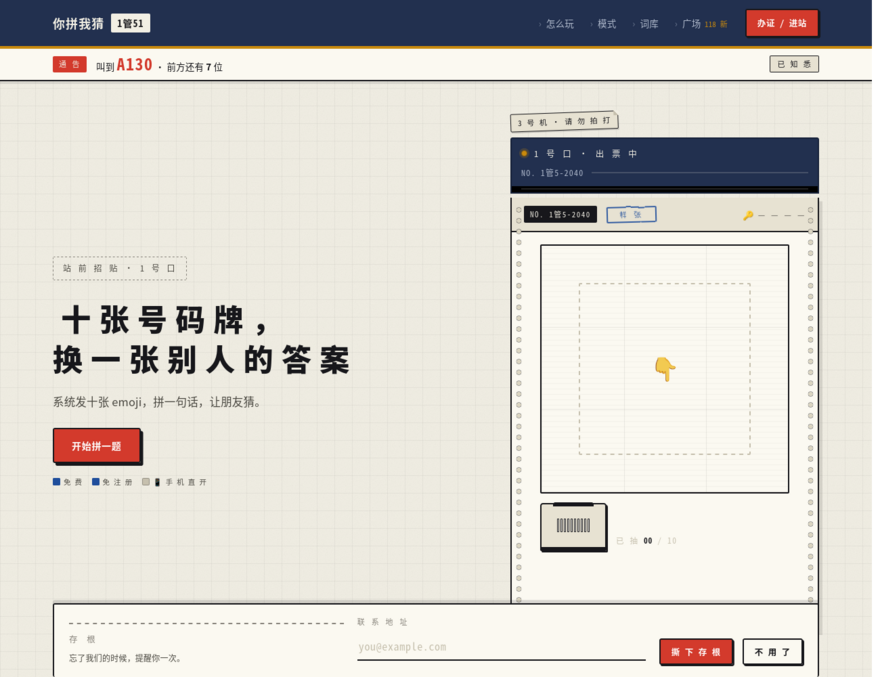
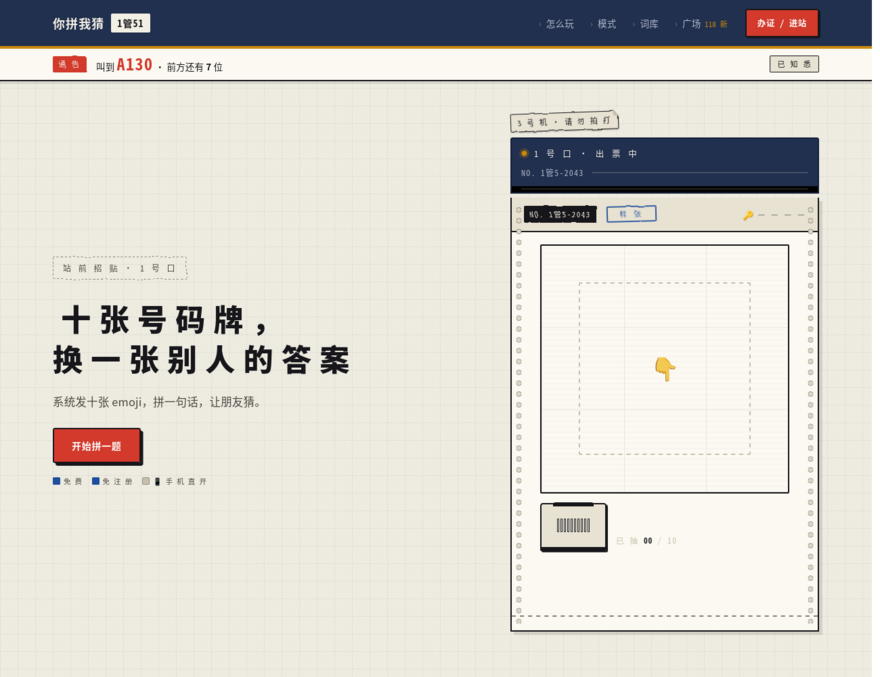
尺寸稳定化 + 油墨降温扩面 + 翻牌倒计时 + 布局不变量检查
## 1. 冻结 .bay 整棵子树的尺寸（用户指向 /…/div[2]/div[2]/div[2]）

路径解析为 .hero > .hero-grid > .bay > .gate > .feed（出票读数行）。
不赌是哪一个，把整棵子树做成「尺寸与内容无关」：

- .feed        高度钉死 30px；.feed-no 用 tabular-nums + min-width:15ch
- .thinbar     去掉 min-width:80px（原来是它顶着，编号一长整行就溢出），改 flex:1 1 0;min-width:0
- .tpaper>.sheet-hd  改 nowrap + overflow:hidden
  （base 的 .sheet-hd 是 flex-wrap:wrap，#ans 从「— — — —」变成真答案时
    宽度变化会触发换行 → 直接 +1 行高 → 整个 hero 跟着跳）
- .ans-lbl     加 min-width:0 + 省略号

## 2. 油墨降温

scale 6/9 → 3.2/4.6，baseFrequency 略升（.05→.07 / .03→.05）。
从「大幅摆动」收成「边缘细碎」，用户反馈原来太夸张。

## 3. 油墨扩面（用户指出：只给印章加会造成语言不统一）

原来只有 .stamp / .seal 有。
现纳入：.tag · .tag-no · .tag-out · .label · .eyebrow · .window-sign · .stamp.wax。
凡「印上去的标记」同一质感，不再出现两种材质。

## 4. 倒计时翻牌化（.flap 终于用上了）

plaza 每日一题、room 倒计时：用 MutationObserver 观察 #cd 的文本变化后重绘，
**不改动原有计时逻辑**；每次只让变了的位翻（真翻牌屏就是这样跳的）。
重绘后 textContent 与 dataset.v 相同 → observer 回调早退，不会自激。

guess 歪解榜：加 .scan（扫描线）+ 头名票数 .glow（磷光）—— 它本来就是「屏」。

## 5. check.sh 新增第 6 组「布局不变量」

把这次修过的四个坑写成断言，防止复发：
  A. .bay 不得用 margin-left:auto、必须有 justify-self:end + width:100%
  B. .hand-row 必须是 grid、不得 flex-wrap、必须有 min-height
  C. .tpaper>.sheet-hd 必须 nowrap
  D. 油墨滤镜不得用 filter:var(...) 中转、页面必须内联 svg defs
判据文件：tools/layout_invariants.py（每条都注明了对应的真实 bug）

注：本轮截图未刷新（本机连续启动 headless Firefox 已超时），
preview/ 落后于代码，下次可用时补。

Changed region(s): [[0.0614, 0.8685, 0.9511, 0.9926], [0.0614, 0.9616, 0.1841, 0.9926], [0.675, 0.2792, 0.7364, 0.3412]]

diff --git a/app/index.html b/app/index.html
@@ -61,9 +61,13 @@ section[id]{scroll-margin-top:130px}
 .gate-top{display:flex;align-items:center;gap:10px;padding-bottom:8px}
 .gate-top .gk{font-family:var(--mono);font-size:12.5px;letter-spacing:.22em;color:var(--paper)}
 /* 出票读数：编号是内容，进度是那条细实线 */
-.feed{display:flex;align-items:center;gap:12px;padding-bottom:10px}
-.feed-no{font-family:var(--mono);font-size:12px;letter-spacing:.1em;color:#B0BACC;white-space:nowrap}
-.thinbar{flex:1;height:2px;background:rgba(242,239,228,.18);min-width:80px}
+/* 出票读数行：高度必须与内容无关。
+   编号是变长的（演示循环会换号），若编号变长而 .thinbar 有 min-width:80px 顶着，
+   整行会溢出；高度也可能随字号/换行变化。这里把高度钉死、编号用等宽数字。 */
+.feed{display:flex;align-items:center;gap:12px;padding-bottom:10px;height:30px}
+.feed-no{font-family:var(--mono);font-size:12px;letter-spacing:.1em;color:#B0BACC;
+  white-space:nowrap;font-variant-numeric:tabular-nums;min-width:15ch}
+.thinbar{flex:1 1 0;min-width:0;height:2px;background:rgba(242,239,228,.18)}
 /* 细实线进度：一格一格跳，不做缓动 —— 机器是机械的 */
 .thinbar i{display:block;height:2px;width:0;background:var(--amber)}
 .gate-slot{height:9px;background:#000;margin:0 -14px;position:relative}
@@ -80,11 +84,14 @@ section[id]{scroll-margin-top:130px}
   background-size:13px 16px;background-repeat:repeat-y}
 .tpaper::before{left:4px}
 .tpaper::after{right:4px}
-.tpaper>.sheet-hd{margin:0 calc(var(--pp) * -1)}
+/* 样张抬头：#ans 会从「— — — —」变成真答案，宽度变化。
+   base 的 .sheet-hd 是 flex-wrap:wrap —— 一旦换行就 +1 行高，整个 hero 跟着跳。
+   这里是展示位，钉成单行 + 超出省略。 */
+.tpaper>.sheet-hd{flex-wrap:nowrap;overflow:hidden;margin:0 calc(var(--pp) * -1)}
 .tpaper.fed{animation:feed-out 1s cubic-bezier(.18,.85,.25,1) both}
 @keyframes feed-out{from{transform:translateY(-36px);opacity:.4}to{transform:none;opacity:1}}
 .tpaper .sheet-bd{padding:18px}
-.ans-lbl{margin-left:auto;white-space:nowrap}
+.ans-lbl{margin-left:auto;white-space:nowrap;min-width:0;overflow:hidden;text-overflow:ellipsis}
 .ans-lbl b{color:var(--ink-3)}
 .tear-full{margin:14px calc(var(--pp) * -1) 8px}
 @media(max-width:520px){.tpaper{--pp:18px}}

diff --git a/app/base.css b/app/base.css
@@ -232,9 +232,12 @@ p.lead{color:var(--ink-2);font-size:16.5px;max-width:34em}
    ③ **唯一可靠的路径是页面内联 <svg><defs><filter> + filter:url(#id)**。
       代价是每页多一段 6 行的 svg（见各页 <body> 之后）。
    另：作用域（x/y/width/height）必须给足 260% —— 给 140% 时位移几乎不可见。
-   参数：低频噪声 + scale 6~9 → 轮廓摆动但笔画不糊。 */
-.stamp, .wet{filter:url(#ink-soft)}
-.seal, .stamp.deep, .wet-hard{filter:url(#ink-hard)}
+   参数：低频噪声 + scale 3.2~4.6（早先用 6~9，用户反馈「太夸张」，已收）。 */
+/* 覆盖面：凡是「印上去的标记」都该有同样的油墨边缘 ——
+   只给印章加、不给标签加，会让同一套语言里出现两种质感（这是用户指出的问题）。
+   纳入：印章 · 压印 · 编号牌 · 标签 · 页眉小牌 · 窗口牌 · 票根外的各式贴标 */
+.stamp, .wet, .tag, .tag-no, .tag-out, .label, .eyebrow, .window-sign{filter:url(#ink-soft)}
+.seal, .stamp.deep, .wet-hard, .stamp.wax{filter:url(#ink-hard)}
 
 /* 圆形压印（头像/钢印用） */
 .seal{width:96px;height:96px;border:3px solid var(--red);border-radius:50%;

diff --git a/app/plaza.html b/app/plaza.html
@@ -585,6 +585,28 @@ syncOnline();
 const io=new IntersectionObserver(es=>es.forEach(e=>{
   if(e.isIntersecting){e.target.classList.add("in");io.unobserve(e.target)}}),{threshold:.1});
 document.querySelectorAll(".reveal").forEach(el=>io.observe(el));
+
+/* ── 倒计时换成翻牌 ──
+   只观察 #cd 的文本变化并重绘，不改动原有计时逻辑。
+   每次只让变了的位翻（真翻牌屏就是这样跳的）。
+   重绘后 el.textContent 与 dataset.v 相同，observer 回调早退，不会自激。 */
+(function(){
+  var el=document.getElementById("cd"); if(!el) return;
+  el.classList.add("flap");
+  function paint(){
+    var s=el.textContent;
+    if(el.dataset.v===s) return;
+    var prev=el.dataset.v||"";
+    el.dataset.v=s;
+    el.innerHTML=Array.prototype.map.call(s,function(ch,i){
+      if(!/\d/.test(ch)) return '<span style="align-self:center;opacity:.55">'+ch+'</span>';
+      var go=(prev.charAt(i)!==ch&&prev)?" go":"";
+      return '<span class="d'+go+'"><i>'+ch+'</i>'+ch+'</span>';
+    }).join("");
+  }
+  new MutationObserver(paint).observe(el,{childList:true,characterData:true,subtree:true});
+  paint();
+})();
 </script>
 </body>
 </html>

diff --git a/app/guess.html b/app/guess.html
@@ -187,7 +187,7 @@
           <b>先猜，再看别人的</b><br>
           <span style="font-size:11px">否则你会被别人的答案带走</span>
         </div>
-        <div class="board" id="board" hidden></div>
+        <div class="board scan glow-soft" id="board" hidden></div>
       </div>
     </div>
 
@@ -337,7 +337,7 @@ function renderBoard(){
       <div class="c3">${g.w}${g.you?' <span class="tag-no red" style="font-size:9.5px">刚交</span>':''}</div>
       <div class="c4">
         <button class="vote${myVote===i?" on":""}" data-i="${i}"
-                ${myVote!==null?"disabled":""}>${g.v} 票</button>
+                ${myVote!==null?"disabled":""}><span class="glow">${g.v}</span> 票</button>
       </div>
     </div>`).join("");
 }

diff --git a/tools/layout_invariants.py b/tools/layout_invariants.py
@@ -1,0 +1,48 @@
+#!/usr/bin/env python3
+"""布局不变量 —— 锁死已经修过的、肉眼看不出来的坑。
+
+每一条都对应一个真实发生过的 bug：
+  A. grid item 上的 margin-left:auto 会吸收自由空间、使 justify-self:stretch 失效，
+     元素退化成 fit-content（宽随内容变）。若其后代带 aspect-ratio，高度就跟着跳。
+  B. 十张牌用 flex-wrap + 手算宽度：10 张 + 9 个 5px 间隙 = 45px，公式少减 1px 就换行，
+     行高直接翻倍。
+  C. 会换行的抬头里放变长文本（#ans 从「— — — —」变成真答案）→ +1 行高。
+  D. 油墨滤镜塞进 CSS 变量或 data-URI → Firefox 静默不渲染。
+"""
+import pathlib, re, sys
+
+idx  = pathlib.Path("app/index.html").read_text(encoding="utf-8")
+base = pathlib.Path("app/base.css").read_text(encoding="utf-8")
+bad  = []
+
+m = re.search(r'\.bay\{([^}]*)\}', idx)
+if not m: bad.append(".bay 规则不见了")
+else:
+    b = m.group(1)
+    if "margin-left:auto" in b: bad.append(".bay 又用回 margin-left:auto —— 宽度会随内容变")
+    if "justify-self:end" not in b: bad.append(".bay 缺 justify-self:end")
+    if "width:100%" not in b: bad.append(".bay 缺 width:100%")
+
+m = re.search(r'\.hand-row\{([^}]*)\}', idx)
+if not m: bad.append(".hand-row 规则不见了")
+else:
+    b = m.group(1)
+    if "flex-wrap" in b: bad.append(".hand-row 又用 flex-wrap —— 1px 误差就换行")
+    if "grid" not in b: bad.append(".hand-row 必须是 grid")
+    if "min-height" not in b: bad.append(".hand-row 缺 min-height，空状态会塌")
+
+m = re.search(r'\.tpaper>\.sheet-hd\{([^}]*)\}', idx)
+if m and "nowrap" not in m.group(1):
+    bad.append(".tpaper>.sheet-hd 又会换行 —— #ans 变长就 +1 行")
+
+if "url(#ink-soft)" not in base: bad.append("base.css 丢了 url(#ink-soft)")
+# 只有「用 filter:var(...) 中转」才是不渲染的写法。
+# 注意 --fiber 也是 data-URI SVG，但它用在 background-image 上，工作正常，不能误报。
+if re.search(r'filter:\s*var\(--', base):
+    bad.append("油墨滤镜又用 filter:var(...) 中转 —— Firefox 完全不会渲染")
+if 'id="ink-soft"' not in idx: bad.append("index.html 少了内联 svg defs")
+
+for b in bad: print("     " + b)
+if not bad:
+    print("  \033[32m✓\033[0m 未被破坏（.bay / .hand-row / .sheet-hd / 油墨滤镜）")
+sys.exit(1 if bad else 0)
